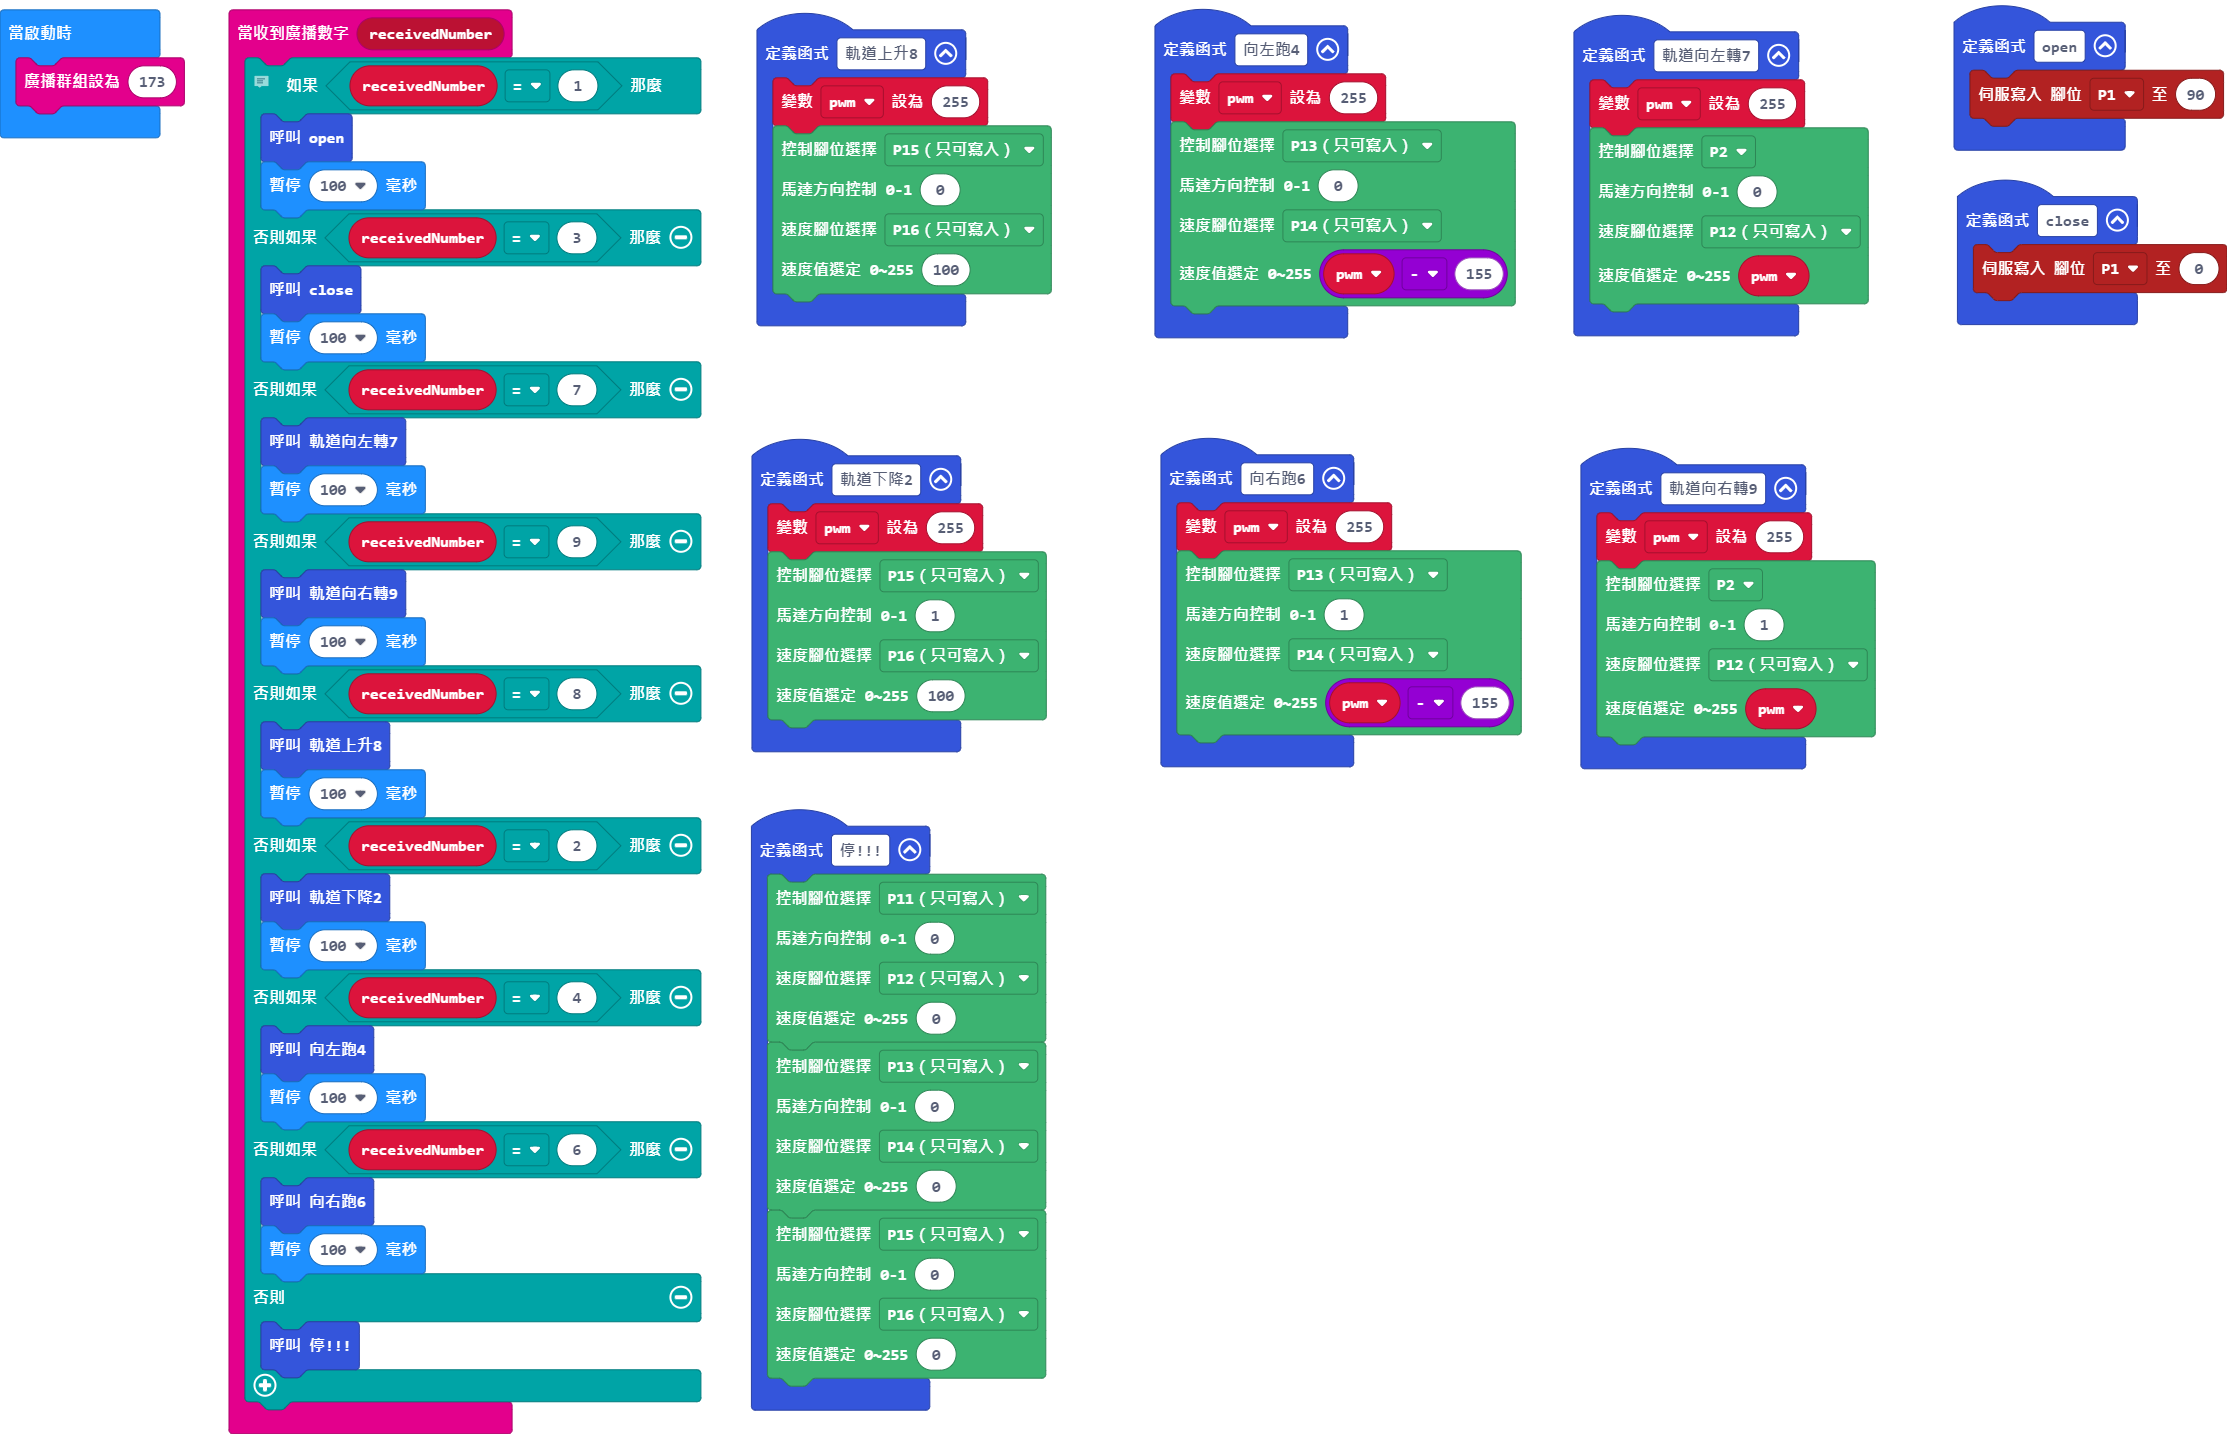
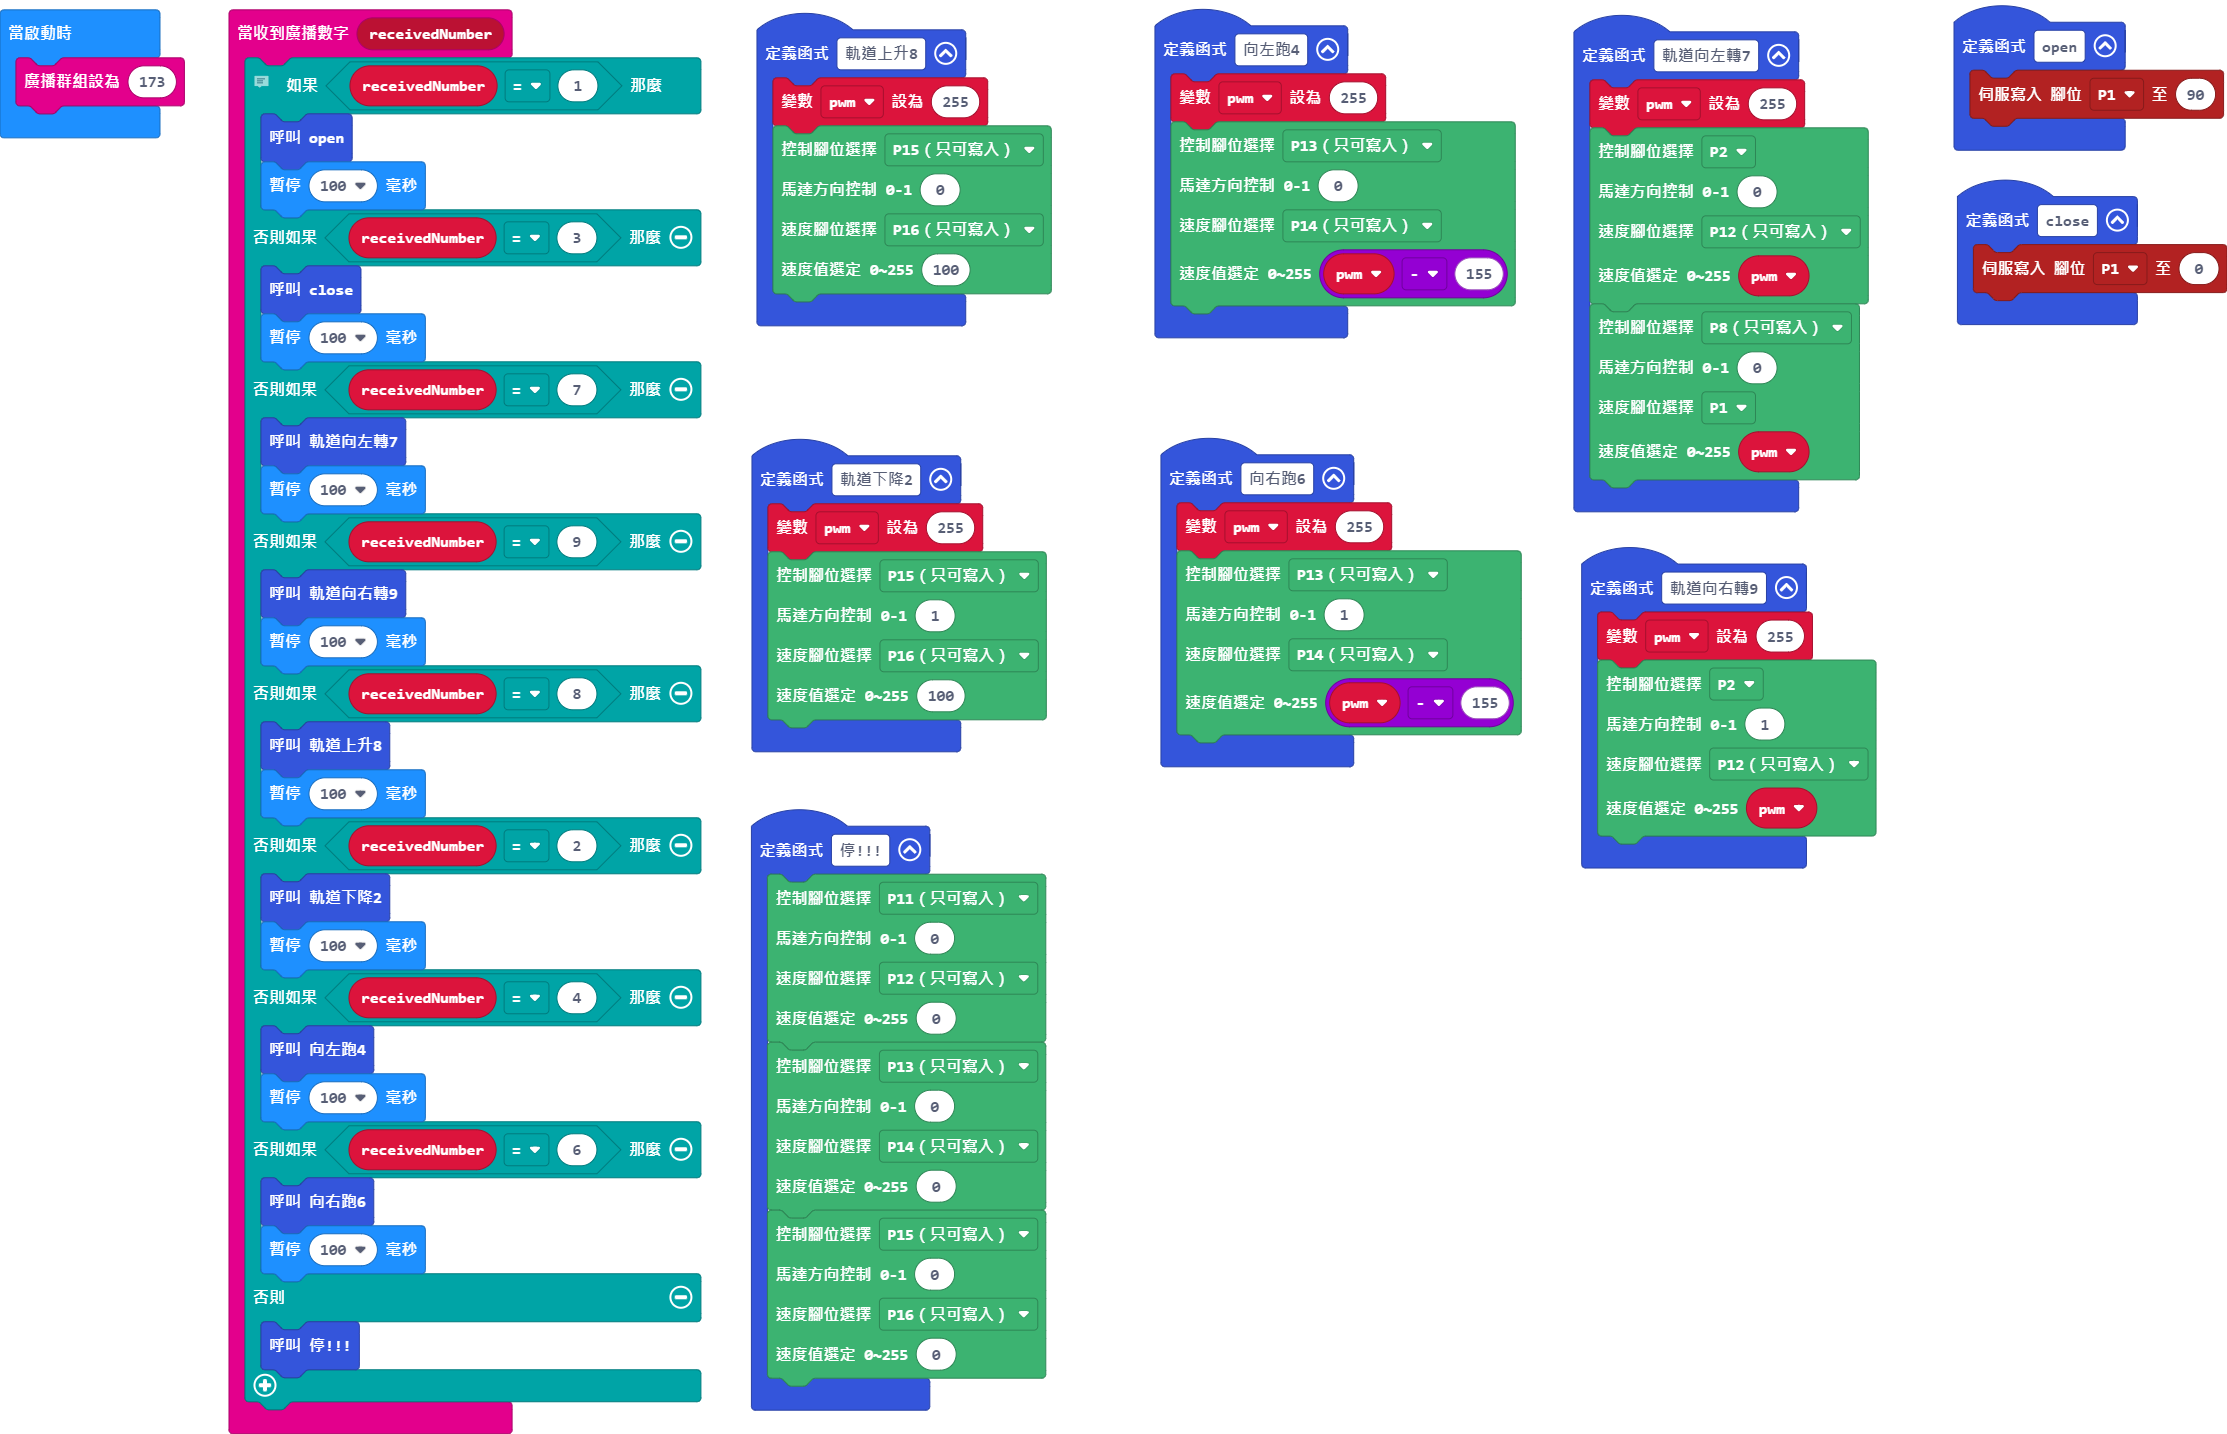
更新 main.blocks, main.ts

Changed region(s): [[0.6816, 0.2148, 0.8675, 0.6137]]

diff --git a/main.ts b/main.ts
@@ -114,6 +114,12 @@ function 軌道向左轉7 () {
     AnalogPin.P12,
     pwm
     )
+    sensors.DDMmotor(
+    AnalogPin.P8,
+    0,
+    AnalogPin.P1,
+    pwm
+    )
 }
 let pwm = 0
 radio.setGroup(173)
